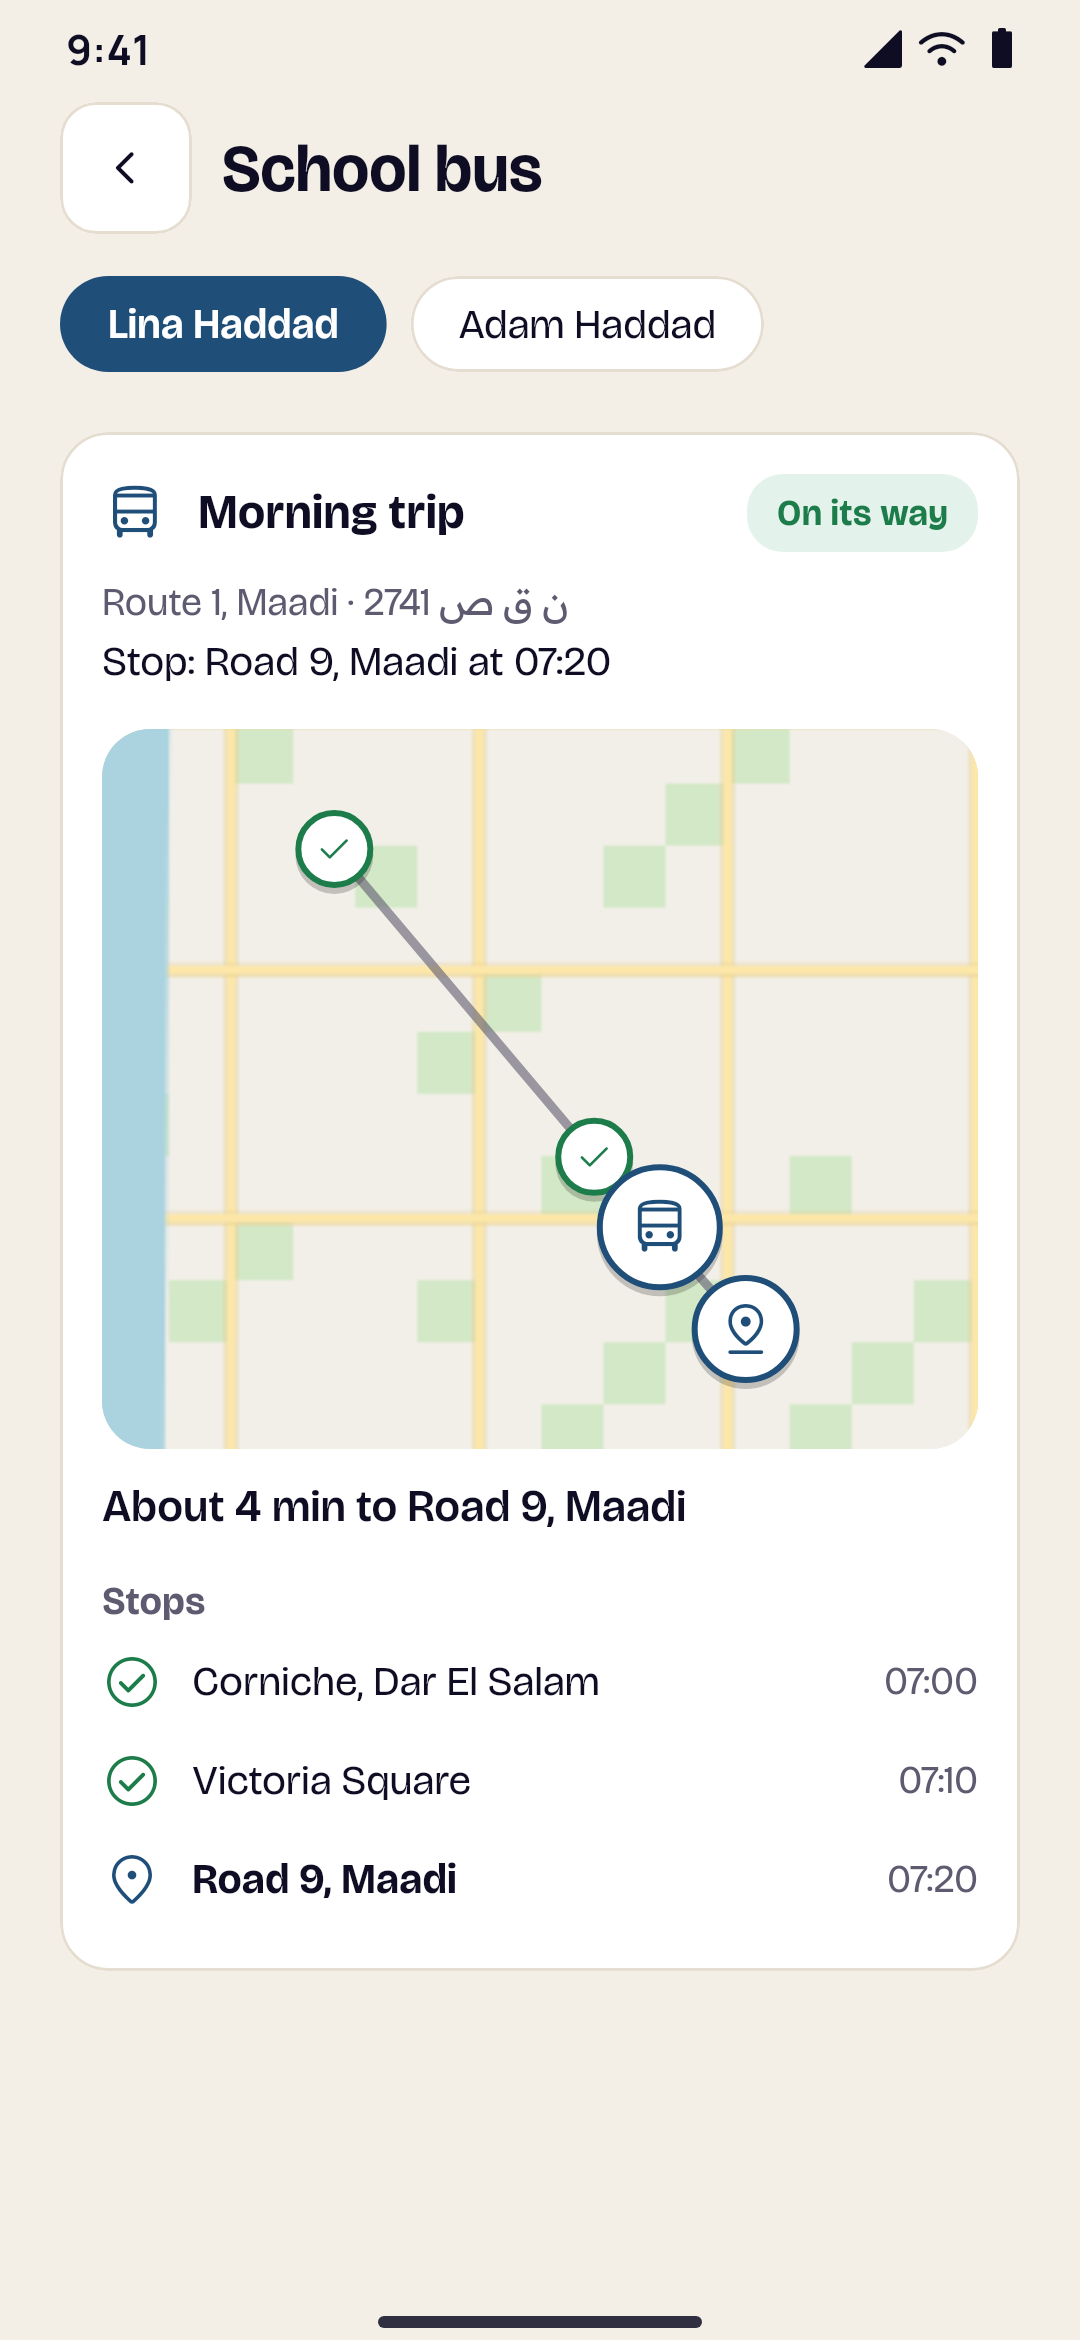
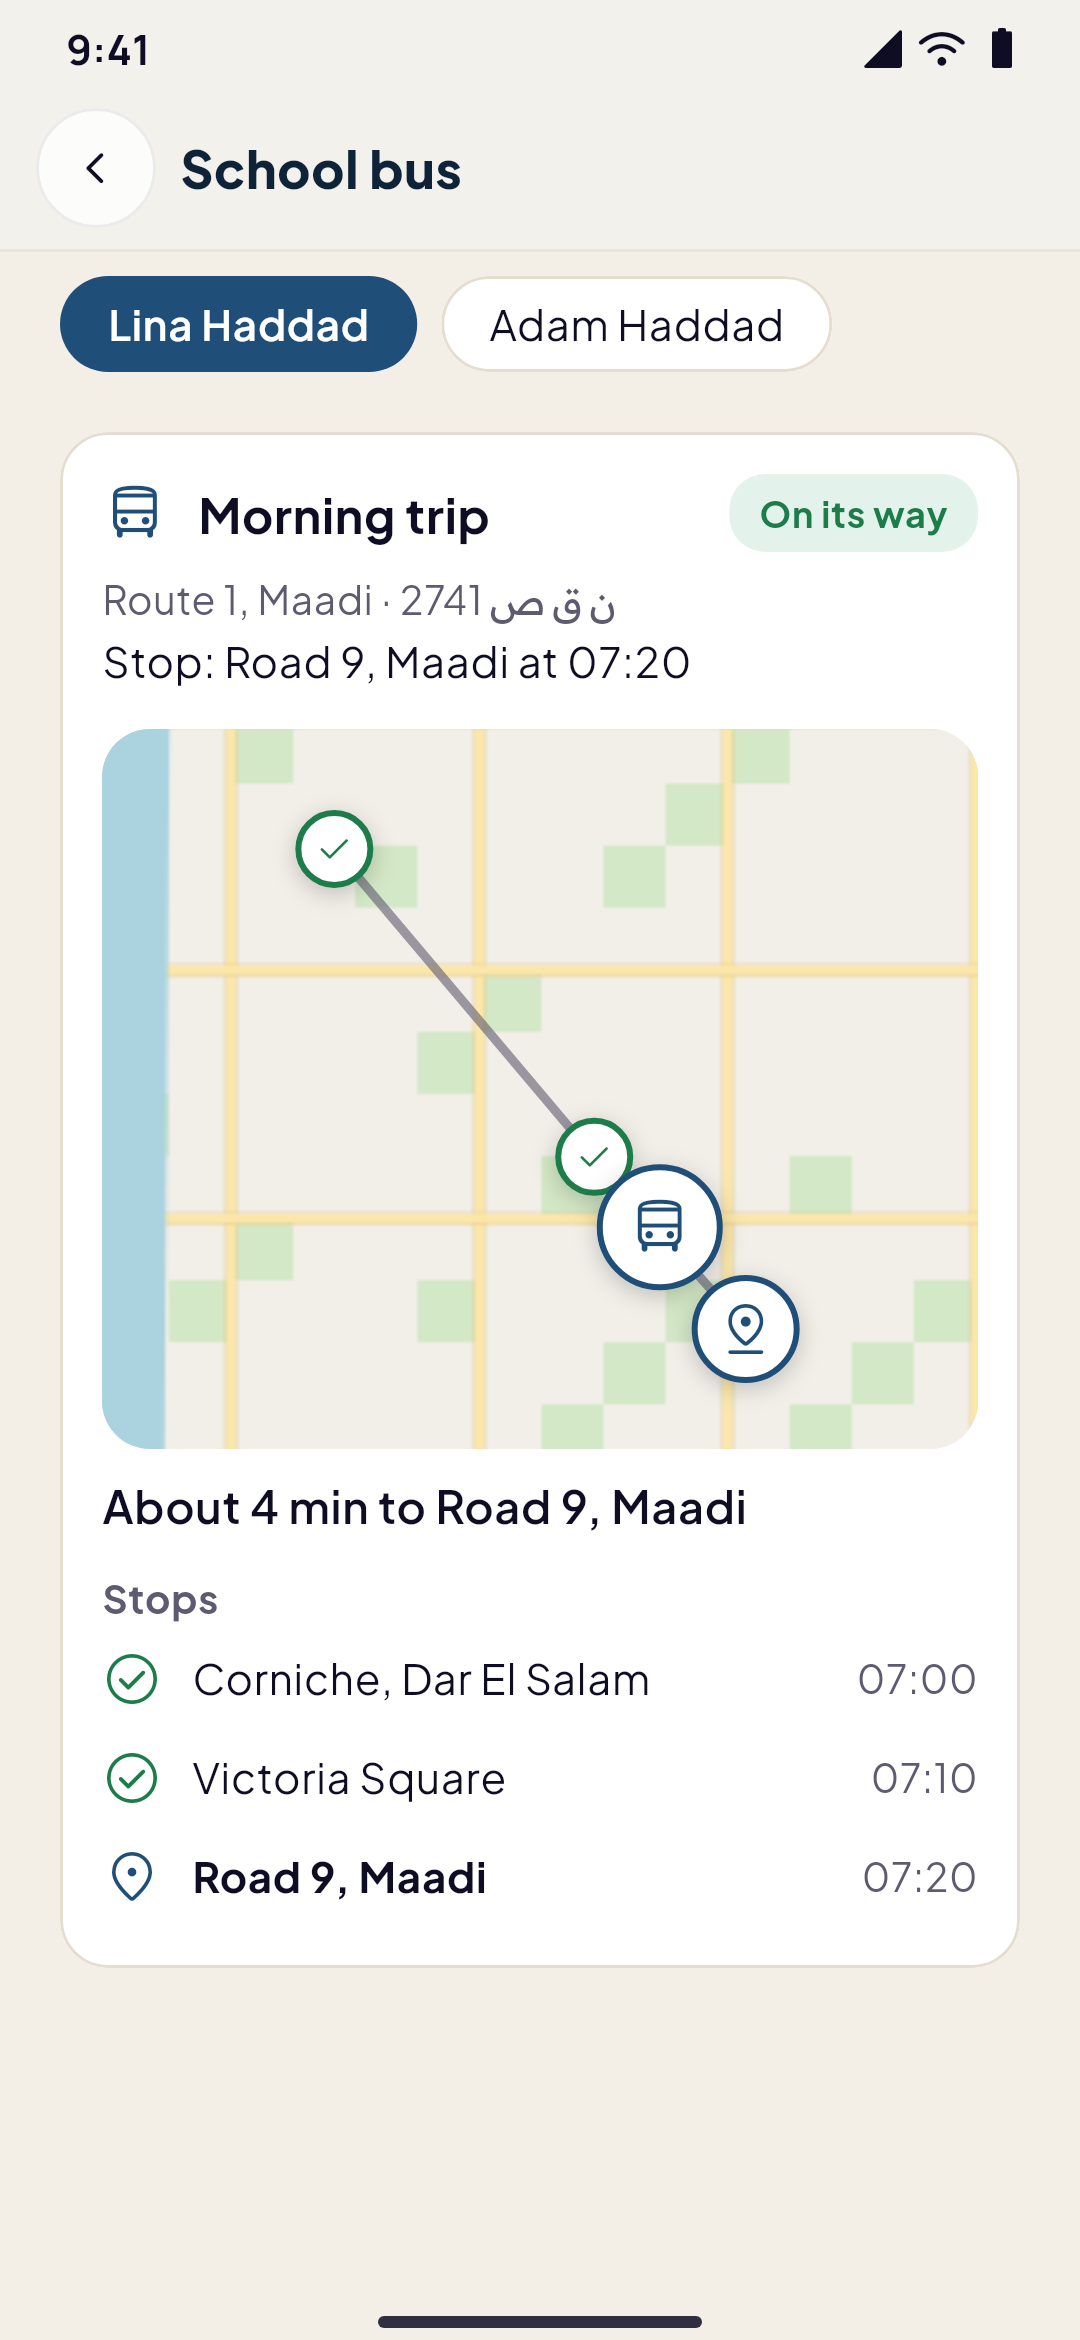
130.51 The school and taxi story screens re-shot in the Signature looks
The six pictures 130.49 kept (school-bus, school-homework, school-library,
school-fees, school-payslip, taxi-earnings) are drawn again from the demos
as they are now, their look A: the bus, homework, library and fees as
Nakhla School's app shows them, under each screen's Studio page with the
look's glass header; a teacher's payslip in Nakhla School's staff app;
Hany's week in Lamha Taxi's drivers' app (lamhaStudioApi earnings).

Claude-Session: https://claude.ai/code/session_01MSAbbHjPLVdK4KhggTQ4Tg

diff --git a/mobile/test/screenshots/support/screens.dart b/mobile/test/screenshots/support/screens.dart
@@ -89,6 +89,9 @@ BuildConfigData _driverApp(BuildConfigData b) =>
 BuildConfigData _courierApp(BuildConfigData b) =>
     b.copyWith(role: AppRole.courier);
 
+/// 130.51 A school's staff app (116): its teachers' and staff's screens.
+BuildConfigData _staffApp(BuildConfigData b) => b.copyWith(role: AppRole.staff);
+
 /// The Sahm Express parcel's trip, Nasr City to Maadi: its middle, and its
 /// ends.
 const _sahmTrip = (lat: 30.0082, lng: 31.2935);
@@ -709,7 +712,7 @@ final websiteShots = <Shot>[
     after: (tester, router) async => router.go('/driver'),
   ),
   // The website's rides story: Ahmed on board, sharing the ride, and
-  // Hany's week.
+  // Hany's week (130.51 in Lamha Taxi's look A, as its drivers' app is).
   Shot(
     'taxi-on-ride',
     api: () => DemoApi.taxi(onBoard: true),
@@ -722,13 +725,15 @@ final websiteShots = <Shot>[
   ),
   Shot(
     'taxi-earnings',
-    api: () => DemoApi.taxi(driver: true, earnings: true),
+    api: () => lamhaStudioApi(driver: true, earnings: true),
     appName: 'Lamha Taxi Driver',
     build: _driverApp,
     appType: AppType.rides,
     template: AppTemplate.bold,
+    prepare: StudioDemo.lamha.prepare,
     overrides: _atTahrir,
     mapTiles: true,
+    shadows: true,
     after: (tester, router) async {
       router.go('/driver');
       await TestApp.settle(tester, 20);
@@ -739,56 +744,23 @@ final websiteShots = <Shot>[
       // The sheet up, for the week's days.
       await tester.drag(
         find.byKey(const ValueKey('driver-earnings')),
-        const Offset(0, -290),
+        const Offset(0, -350),
       );
     },
   ),
   Shot('school-today', api: DemoApi.school, appType: AppType.school),
-  Shot(
-    'school-homework',
-    api: DemoApi.school,
-    appType: AppType.school,
-    location: '/school/homework',
-  ),
   Shot(
     'school-classroom',
     api: DemoApi.school,
     appType: AppType.school,
     location: '/classroom/class/2/attendance',
   ),
-  // The website's school story: the parent's area, the bus coming, the
-  // fees, a teacher's payslip and the library (Nakhla School).
+  // The parent's area (Nakhla School).
   Shot(
     'school-parent',
     api: DemoApi.school,
     appType: AppType.school,
     after: (tester, router) async => router.go('/parent'),
-  ),
-  Shot(
-    'school-bus',
-    api: () => DemoApi.school(map: true),
-    appType: AppType.school,
-    location: '/school/bus?student=11',
-    mapTiles: true,
-    mapCenter: (lat: 29.9641, lng: 31.2531),
-  ),
-  Shot(
-    'school-fees',
-    api: DemoApi.school,
-    appType: AppType.school,
-    location: '/school/fees?student=11',
-  ),
-  Shot(
-    'school-payslip',
-    api: DemoApi.school,
-    appType: AppType.school,
-    location: '/staff/payslip/42',
-  ),
-  Shot(
-    'school-library',
-    api: DemoApi.school,
-    appType: AppType.school,
-    location: '/school/library',
   ),
   // The website's multi-vendor story: Zad's home, Bab El Sharq Grill's
   // menu, Zad Market's aisles by the kilo, and the groceries on their way.
@@ -1172,6 +1144,58 @@ final websiteShots = <Shot>[
         prepare: (tester) => look.prepare(tester, rawaqPhotos),
         shadows: true,
       ),
+  // 130.51 The website's school story: homework, the bus coming, the
+  // fees and the library, as Nakhla School's app is (its look A: each
+  // screen under the look's glass header), and a teacher's payslip in its
+  // staff app.
+  Shot(
+    'school-homework',
+    api: () => nakhlaStudioApi(staffApp: true),
+    appName: 'Nakhla School',
+    appType: AppType.school,
+    prepare: StudioDemo.nakhla.prepare,
+    location: '/school/homework',
+    shadows: true,
+  ),
+  Shot(
+    'school-bus',
+    api: () => nakhlaStudioApi(map: true, staffApp: true),
+    appName: 'Nakhla School',
+    appType: AppType.school,
+    prepare: StudioDemo.nakhla.prepare,
+    location: '/school/bus?student=11',
+    mapTiles: true,
+    mapCenter: (lat: 29.9641, lng: 31.2531),
+    shadows: true,
+  ),
+  Shot(
+    'school-fees',
+    api: () => nakhlaStudioApi(staffApp: true),
+    appName: 'Nakhla School',
+    appType: AppType.school,
+    prepare: StudioDemo.nakhla.prepare,
+    location: '/school/fees?student=11',
+    shadows: true,
+  ),
+  Shot(
+    'school-library',
+    api: () => nakhlaStudioApi(staffApp: true),
+    appName: 'Nakhla School',
+    appType: AppType.school,
+    prepare: StudioDemo.nakhla.prepare,
+    location: '/school/library',
+    shadows: true,
+  ),
+  Shot(
+    'school-payslip',
+    api: () => nakhlaStudioApi(staffApp: true),
+    appName: 'Nakhla School Staff',
+    build: _staffApp,
+    appType: AppType.school,
+    prepare: StudioDemo.nakhla.prepare,
+    location: '/staff/payslip/42',
+    shadows: true,
+  ),
   Shot(
     'nakhla-parent',
     api: () => nakhlaStudioApi(staffApp: true),

diff --git a/mobile/test/screenshots/support/studio_demo.dart b/mobile/test/screenshots/support/studio_demo.dart
@@ -661,14 +661,21 @@ DemoApi _masarRide(DemoApi api) => api
   ];
 
 /// Lamha Taxi (Studio's live taxi demo): its car types on its home, the cars
-/// in their drawings (none of a six-seat car).
+/// in their drawings (none of a six-seat car). 130.51 And the driver's week
+/// ([earnings]), for the website's rides story.
 DemoApi lamhaStudioApi({
   bool driver = false,
   bool ride = true,
   bool onBoard = false,
+  bool earnings = false,
   StudioDemo? look,
 }) => (look ?? StudioDemo.lamha).apply(
-  DemoApi.taxi(driver: driver, ride: ride, onBoard: onBoard),
+  DemoApi.taxi(
+    driver: driver,
+    ride: ride,
+    onBoard: onBoard,
+    earnings: earnings,
+  ),
   appName: 'Lamha Taxi',
   primaryColor: '#1C2541',
   items: {

diff --git a/docs/ROADMAP.md b/docs/ROADMAP.md
@@ -3276,3 +3276,4 @@ The owner (13 November) approved two Signature looks for each Studio demo and as
 | [x] | 130.48 The documentation up to date for Phases 128–130, in English, Arabic and Turkish (the website's Arabic, quoting Studio's Egyptian labels): `/docs/studio-premium-elements` with Phase 129's premium library (the hero slider and card carousel with their indicator and count, progress segments, stories, the ticker, the video and parallax banners, the gallery, before and after, the entrance played as people scroll, testimonials, pricing with no price filled in, numbers, progress, the timeline, the profile card, the bento grid, the glass, ticket and texture card styles, the badge, the action bar, the small dock; the map's looks natural, horizon, two inks and the radar lens with their pins, words and markers, and the live route) and Phase 130's generic options (the live order's and live card's looks hero, ring, pill and steps with their accent, the next trip with the ticket and the large number, a greeting's own words, the student's card in a gold ring with this week's days, the places as a deck), the premium headers (large, glass, photo, brand, search, the line under the title, the photo, folding) and the system screens' look (Studio's page settings and Sign-in and account › System screens: the account, settings, notifications, the language, editing the profile, help, the lists, sign-in, the code screen, the empty and loading states, one screen's own look); `/docs/studio-templates` with Studio's nine demos as their look A (Safra added; every count of eight fixed), the eighteen Signature looks and /start with both ("Two looks to start from", "2 looks", "In the look: …", a real project from either), the looks among the kind's templates and on App setup's Branding, the six premium whole designs (Golden hour, Garden, After dark, Clear water, Editorial, Bloom: what each brings, its bar, colours, font and screens, nothing made up) after the demo's two looks, and the words in the app in Modern Standard Arabic; `studio-elements` (the Premium group, the entrance as people scroll, the header's premium style, the small dock, the system screens' look), `yallapp-studio` (nine demos in two looks, the Premium group; the regular plans no longer named), `wordpress-plugin` and the plugin's readme (0.4.40 and 0.4.41), `my-own-api` (a Studio header's `style`, `/config`'s `screens.system`), `travel` (Safra's two looks); the help link of Sign-in and account (`/dashboard/screens` → `studio-premium-elements`); the nine look B homes (`public/screens/<demo's address>-sig-b-home.png`) as screenshots with their words in the three languages, and the words of the nine demo homes' screenshots, now their look A | `site-i18n.test.ts`, `site-content.test.ts`, `docs-help.test.ts`, `website-seo.test.ts`, `website.test.ts`, `black-friday-page.test.ts`, `story-pages.test.ts` |
 | [x] | 130.49 The Studio demo pages show the demos as they are now, their Signature looks (the owner, 14 November: "update the Studio demo pages with the new pictures"): every Studio demo surface of the website uses the 130 screenshots and none older. /demo/studio opens on Sofra Eats in its look A by night (in place of the café designed in Studio, whose section is gone) and each of the nine demos has, under its own screens (DEMO_GUIDES, its look A), "Two looks to start from": its look A by night and its look B by day and by night with their captions (`site/studio-looks.tsx`, `site/look-shots.ts`; Look A · Dark, Look B · Light…, in English, Arabic and Turkish); a Studio kind's solution page (`/solutions/delivery`, `food`, `multi-vendor`, `rides`, `school`, `university`, `instructors`) shows its demo's screens (Sahm Express, Sofra Eats, Zad, Masar Rides and Lamha Taxi, Nakhla School, Rawaq Academy) and both looks by day and by night; /yallapp-studio's "Apps made in Studio" the demos in their looks A and B with their names (in place of the café and the 104 courier screens) and each Studio-only kind its demo's screen (university Nakhla School's look B); the home page's fan of phones (Lamha Taxi's and Nakhla School's homes) and its Studio band (Sofra Eats by night); the features page's live maps and schools; `/docs/yallapp-studio`'s figures; the school, rides and delivery story pages (Nakhla School's home, parent and classroom, Lamha Taxi's home, ride and driver, Masar Rides's choice of ride, Sahm Express's home, parcel and courier job; the bus, homework, library, fees, payslip and a driver's earnings keep their pictures, the app having no newer one of them). The eighteen night pictures (`<demo's address>-sig-<a\|b>-home-dark.png`) are site screenshots with their words in the three languages. The demo apps were checked: the registry, `DEMO_HOME_TEMPLATES`, `demo_<demo>`, the demo app's layout (`lib/demo/setup.ts` `demoLayout`: look A's home, bar, tabs, colours, font, sign-in, account menu and premium chrome) and the demos' saved projects (`mobile/test/support/*_demo.json`) are all look A; the live demo apps take it when Admin › Demo apps refreshes them, and their downloads need a build made since 130 | `site-content.test.ts`, `site-i18n.test.ts`, `story-pages.test.ts`, `home-hero.test.ts`, `studio-demo-templates.test.ts`, `public.spec.ts` |
 | [x] | 130.50 Black Friday's shelf ("Somewhere on this shelf, yours is waiting.") shows each kind's app in place of its icons (the owner, 14 November): a real screen in the site's phone frame rising out of the display's floor, cropped by it, with a second screen tilted behind it, a glow in the display's own hue and the glass's glare, by day and by night as the site's theme is, mirrored right to left (`site/occasions/shape.ts` `shelfShots`, `black-friday.tsx` `ShelfPhones`, `black-friday.css` `.bf-shot`). A Studio kind its demo in its Signature looks, look A in front and look B behind (Ride and taxi Masar Rides in front of Lamha Taxi; University Nakhla School's look B in front, so no two displays are alike); a regular kind its own screens (the academy's home by night too). Each picture is described in English, Arabic and Turkish, loaded lazily by next/image at the phone's size; the −50% tag, the words and the buttons are as they were. The opening's side phone is Sofra Eats in its look A by night, in place of the café | `black-friday-page.test.ts`, `black-friday.spec.ts` |
+| [x] | 130.51 The school and taxi story screens re-shot in the Signature looks: the six pictures 130.49 kept (`school-bus`, `school-homework`, `school-library`, `school-fees`, `school-payslip`, `taxi-earnings`), still on the school and rides story pages, are drawn again from the demos as they are now, their look A (`mobile/test/support/nakhla_demo.json`, `lamha_demo.json`, current with `studio-demo-templates.test.ts`): the bus, homework, library and fees as Nakhla School's app shows them, under the Studio page drawn around each screen with the look's glass header, Plus Jakarta Sans and its gold; a teacher's payslip in Nakhla School's staff app (`role` staff, as the demo's staff work, `staff_app` bundle) in the look's colours and font; Hany's week in Lamha Taxi's drivers' app in its look A (Manrope, its gold and the dark floating bar; `lamhaStudioApi(earnings: true)`). Same file names; the other screenshots the pipeline rewrites are left as they were | `website_screenshots_test.dart` |
